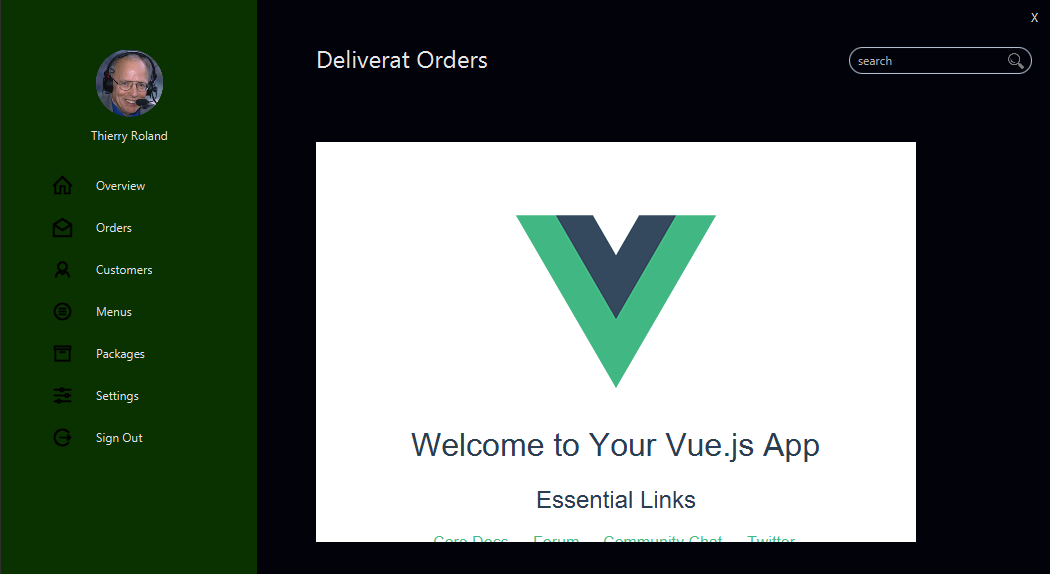
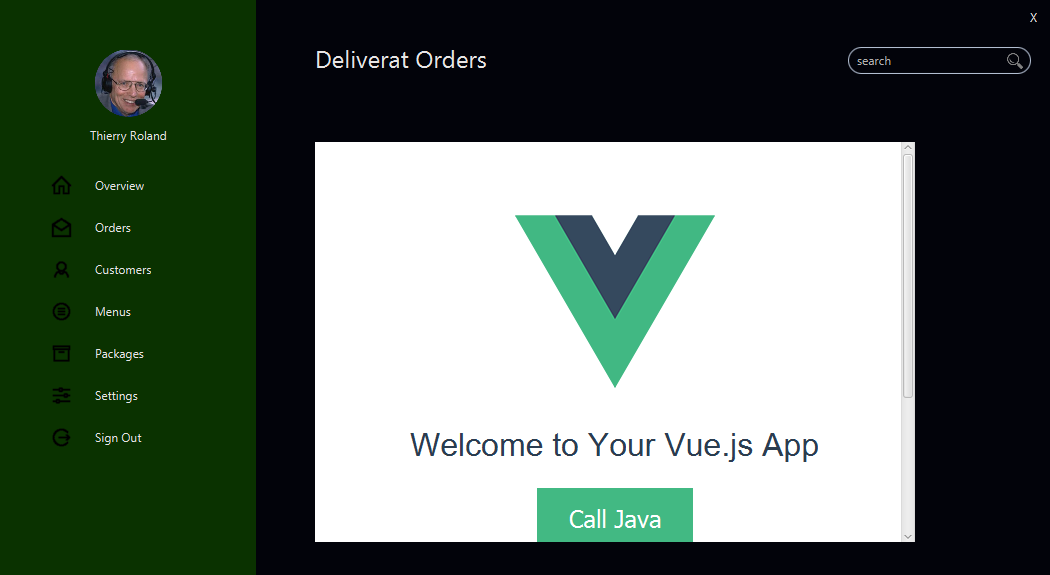
Update Readme & screenshot

diff --git a/src/main/java/webview/index.html b/src/main/java/webview/index.html
@@ -1,1 +1,1 @@
-<!DOCTYPE html><html><head><meta charset=utf-8><meta name=viewport content="width=device-width,initial-scale=1"><title>spa</title><link href=static/css/app.72e75ea625484b635b239b9bdc224084.css rel=stylesheet></head><body><div id=app></div><script type=text/javascript src=static/js/manifest.2ae2e69a05c33dfc65f8.js></script><script type=text/javascript src=static/js/vendor.0aad2172a75b8ed4f46c.js></script><script type=text/javascript src=static/js/app.4dd25a264ba21e906b26.js></script></body></html>
+<!DOCTYPE html><html><head><meta charset=utf-8><meta name=viewport content="width=device-width,initial-scale=1"><title>spa</title><link href=static/css/app.72e75ea625484b635b239b9bdc224084.css rel=stylesheet></head><body><div id=app></div><script type=text/javascript src=static/js/manifest.37a2ecbb1d1b7e6c9ada.js></script><script type=text/javascript src=static/js/vendor.0aad2172a75b8ed4f46c.js></script><script type=text/javascript src=static/js/app.4dd25a264ba21e906b26.js></script></body></html>

diff --git a/src/main/java/webview/static/js/manifest.37a2ecbb1d1b7e6c9ada.js b/src/main/java/webview/static/js/manifest.37a2ecbb1d1b7e6c9ada.js
@@ -1,0 +1,2 @@
+!function(r){var n=window.webpackJsonp;window.webpackJsonp=function(e,u,c){for(var f,i,p,a=0,l=[];a<e.length;a++)i=e[a],o[i]&&l.push(o[i][0]),o[i]=0;for(f in u)Object.prototype.hasOwnProperty.call(u,f)&&(r[f]=u[f]);for(n&&n(e,u,c);l.length;)l.shift()();if(c)for(a=0;a<c.length;a++)p=t(t.s=c[a]);return p};var e={},o={2:0};function t(n){if(e[n])return e[n].exports;var o=e[n]={i:n,l:!1,exports:{}};return r[n].call(o.exports,o,o.exports,t),o.l=!0,o.exports}t.m=r,t.c=e,t.d=function(r,n,e){t.o(r,n)||Object.defineProperty(r,n,{configurable:!1,enumerable:!0,get:e})},t.n=function(r){var n=r&&r.__esModule?function(){return r.default}:function(){return r};return t.d(n,"a",n),n},t.o=function(r,n){return Object.prototype.hasOwnProperty.call(r,n)},t.p="",t.oe=function(r){throw console.error(r),r}}([]);
+//# sourceMappingURL=manifest.37a2ecbb1d1b7e6c9ada.js.map

diff --git a/README.md b/README.md
@@ -5,6 +5,7 @@
 This project is : 
 * Maven + JavaFX + Openjdk 16 + Eclipse
 * an example with a WebView
+* with a demonstration of an interaction between Javascript in the WebView and a Java object (click on Call Java and see your Eclipse console)
 * with custom css & borderless window
 * resize and drag and drop of the window
 * a window close button
